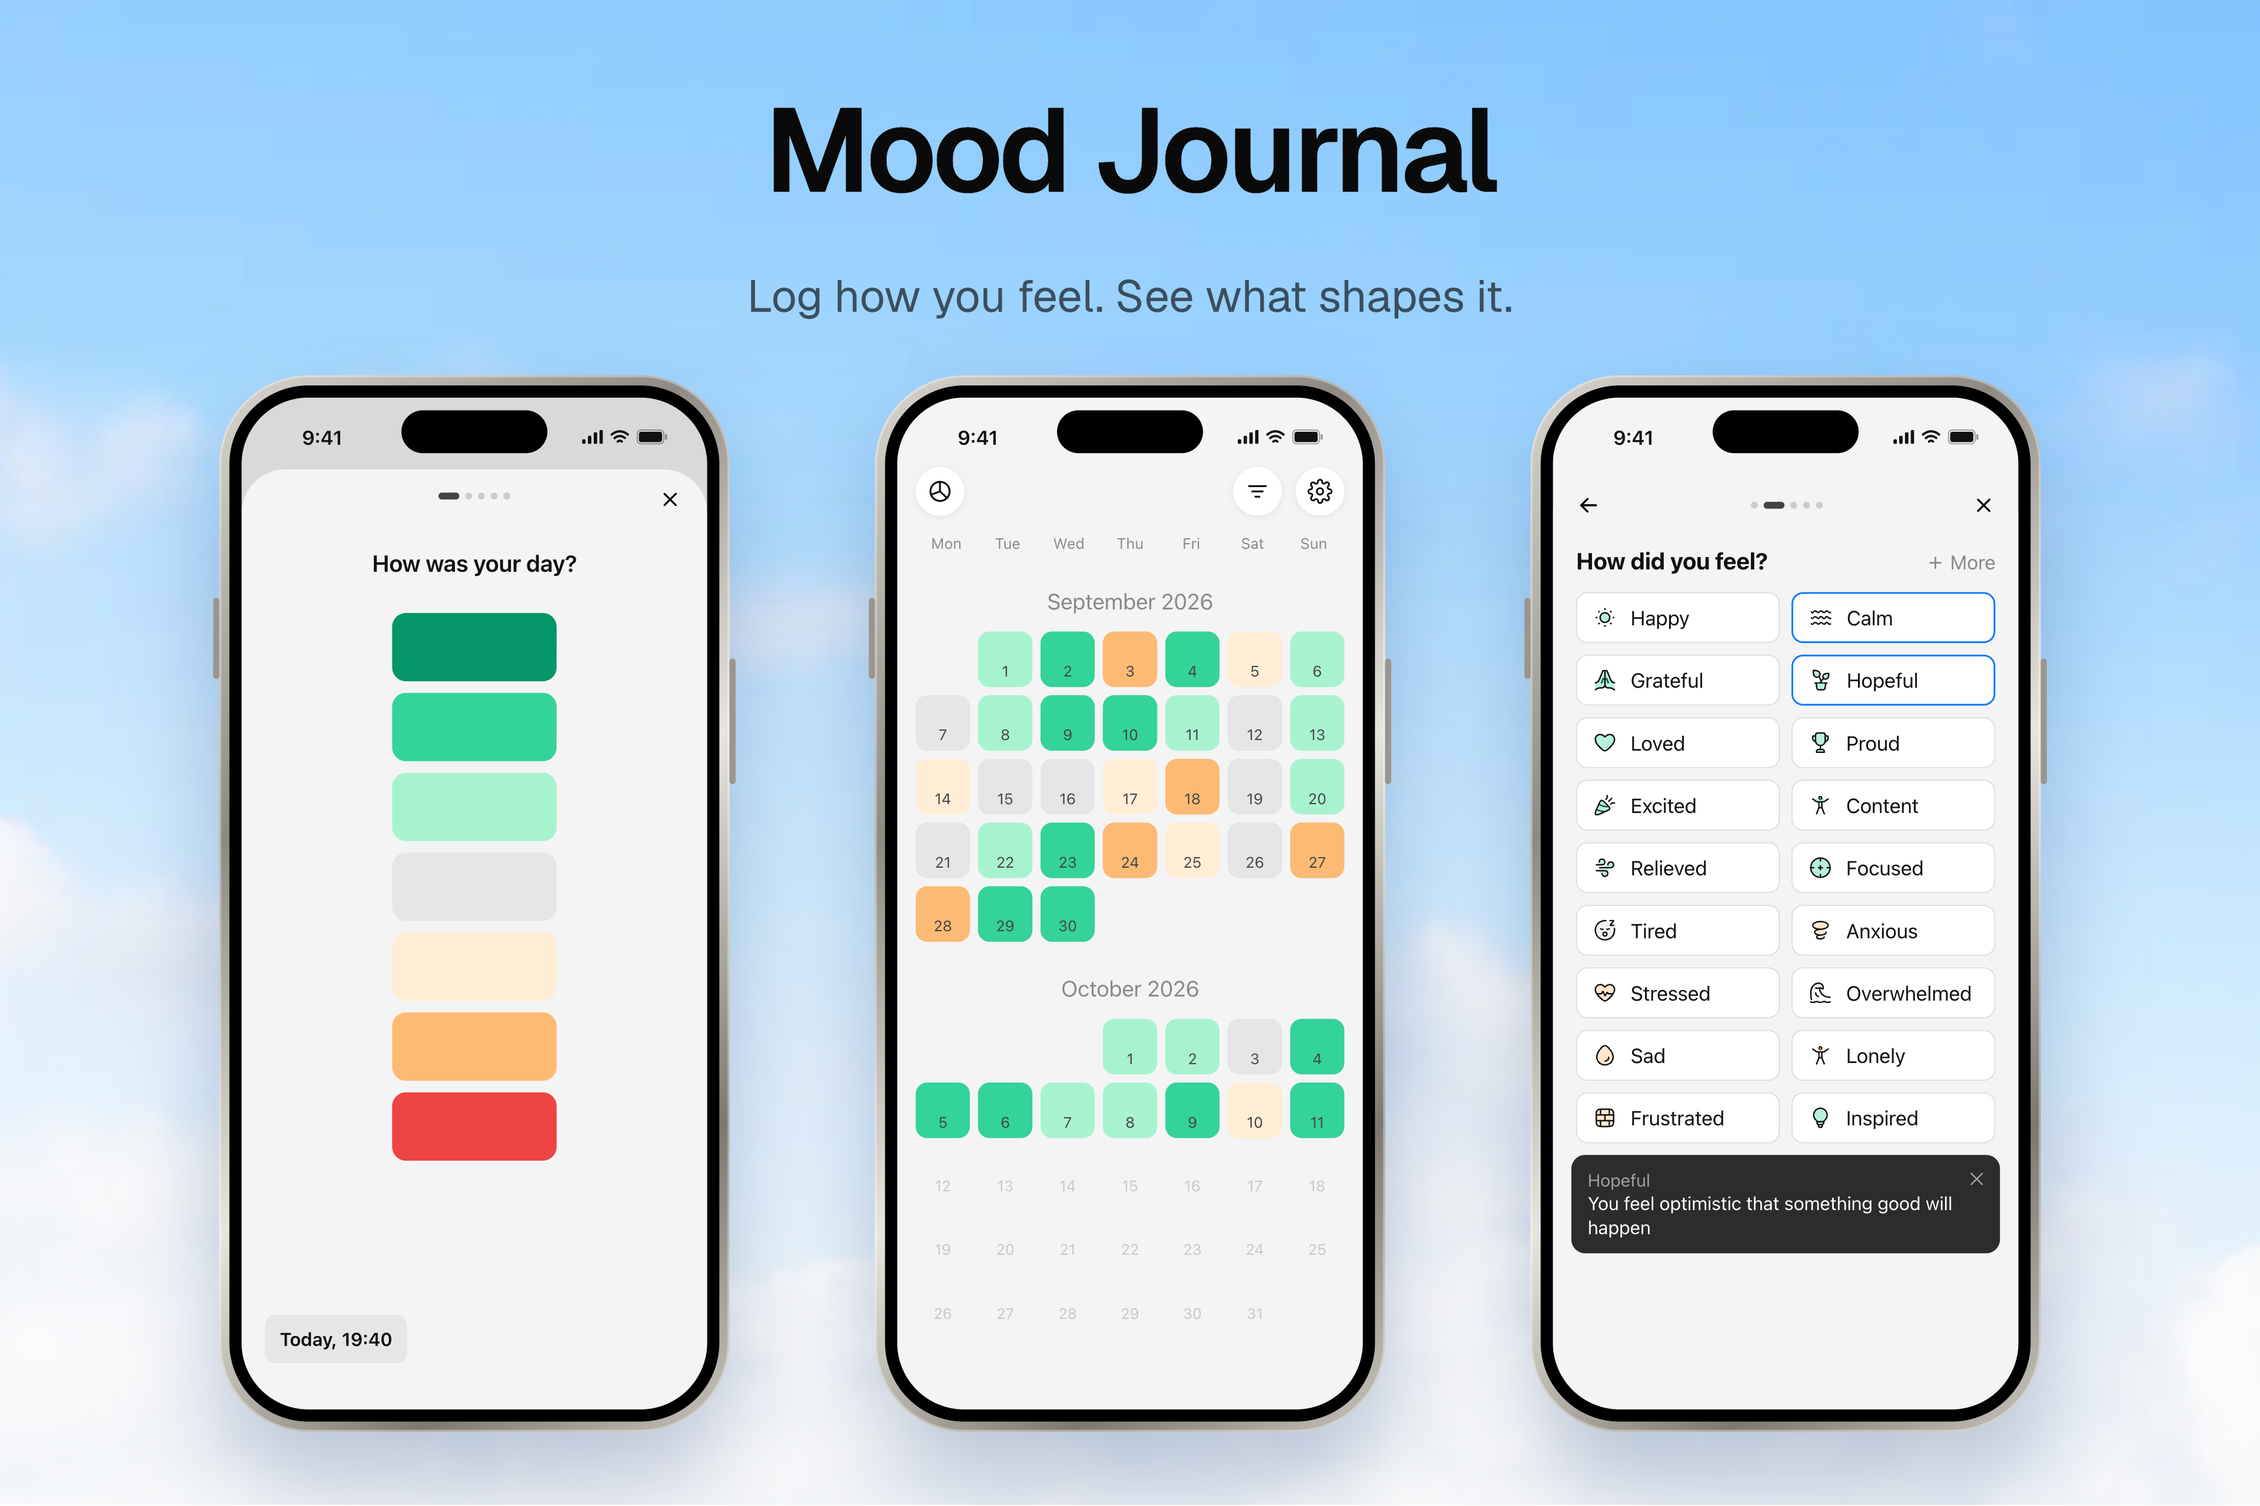
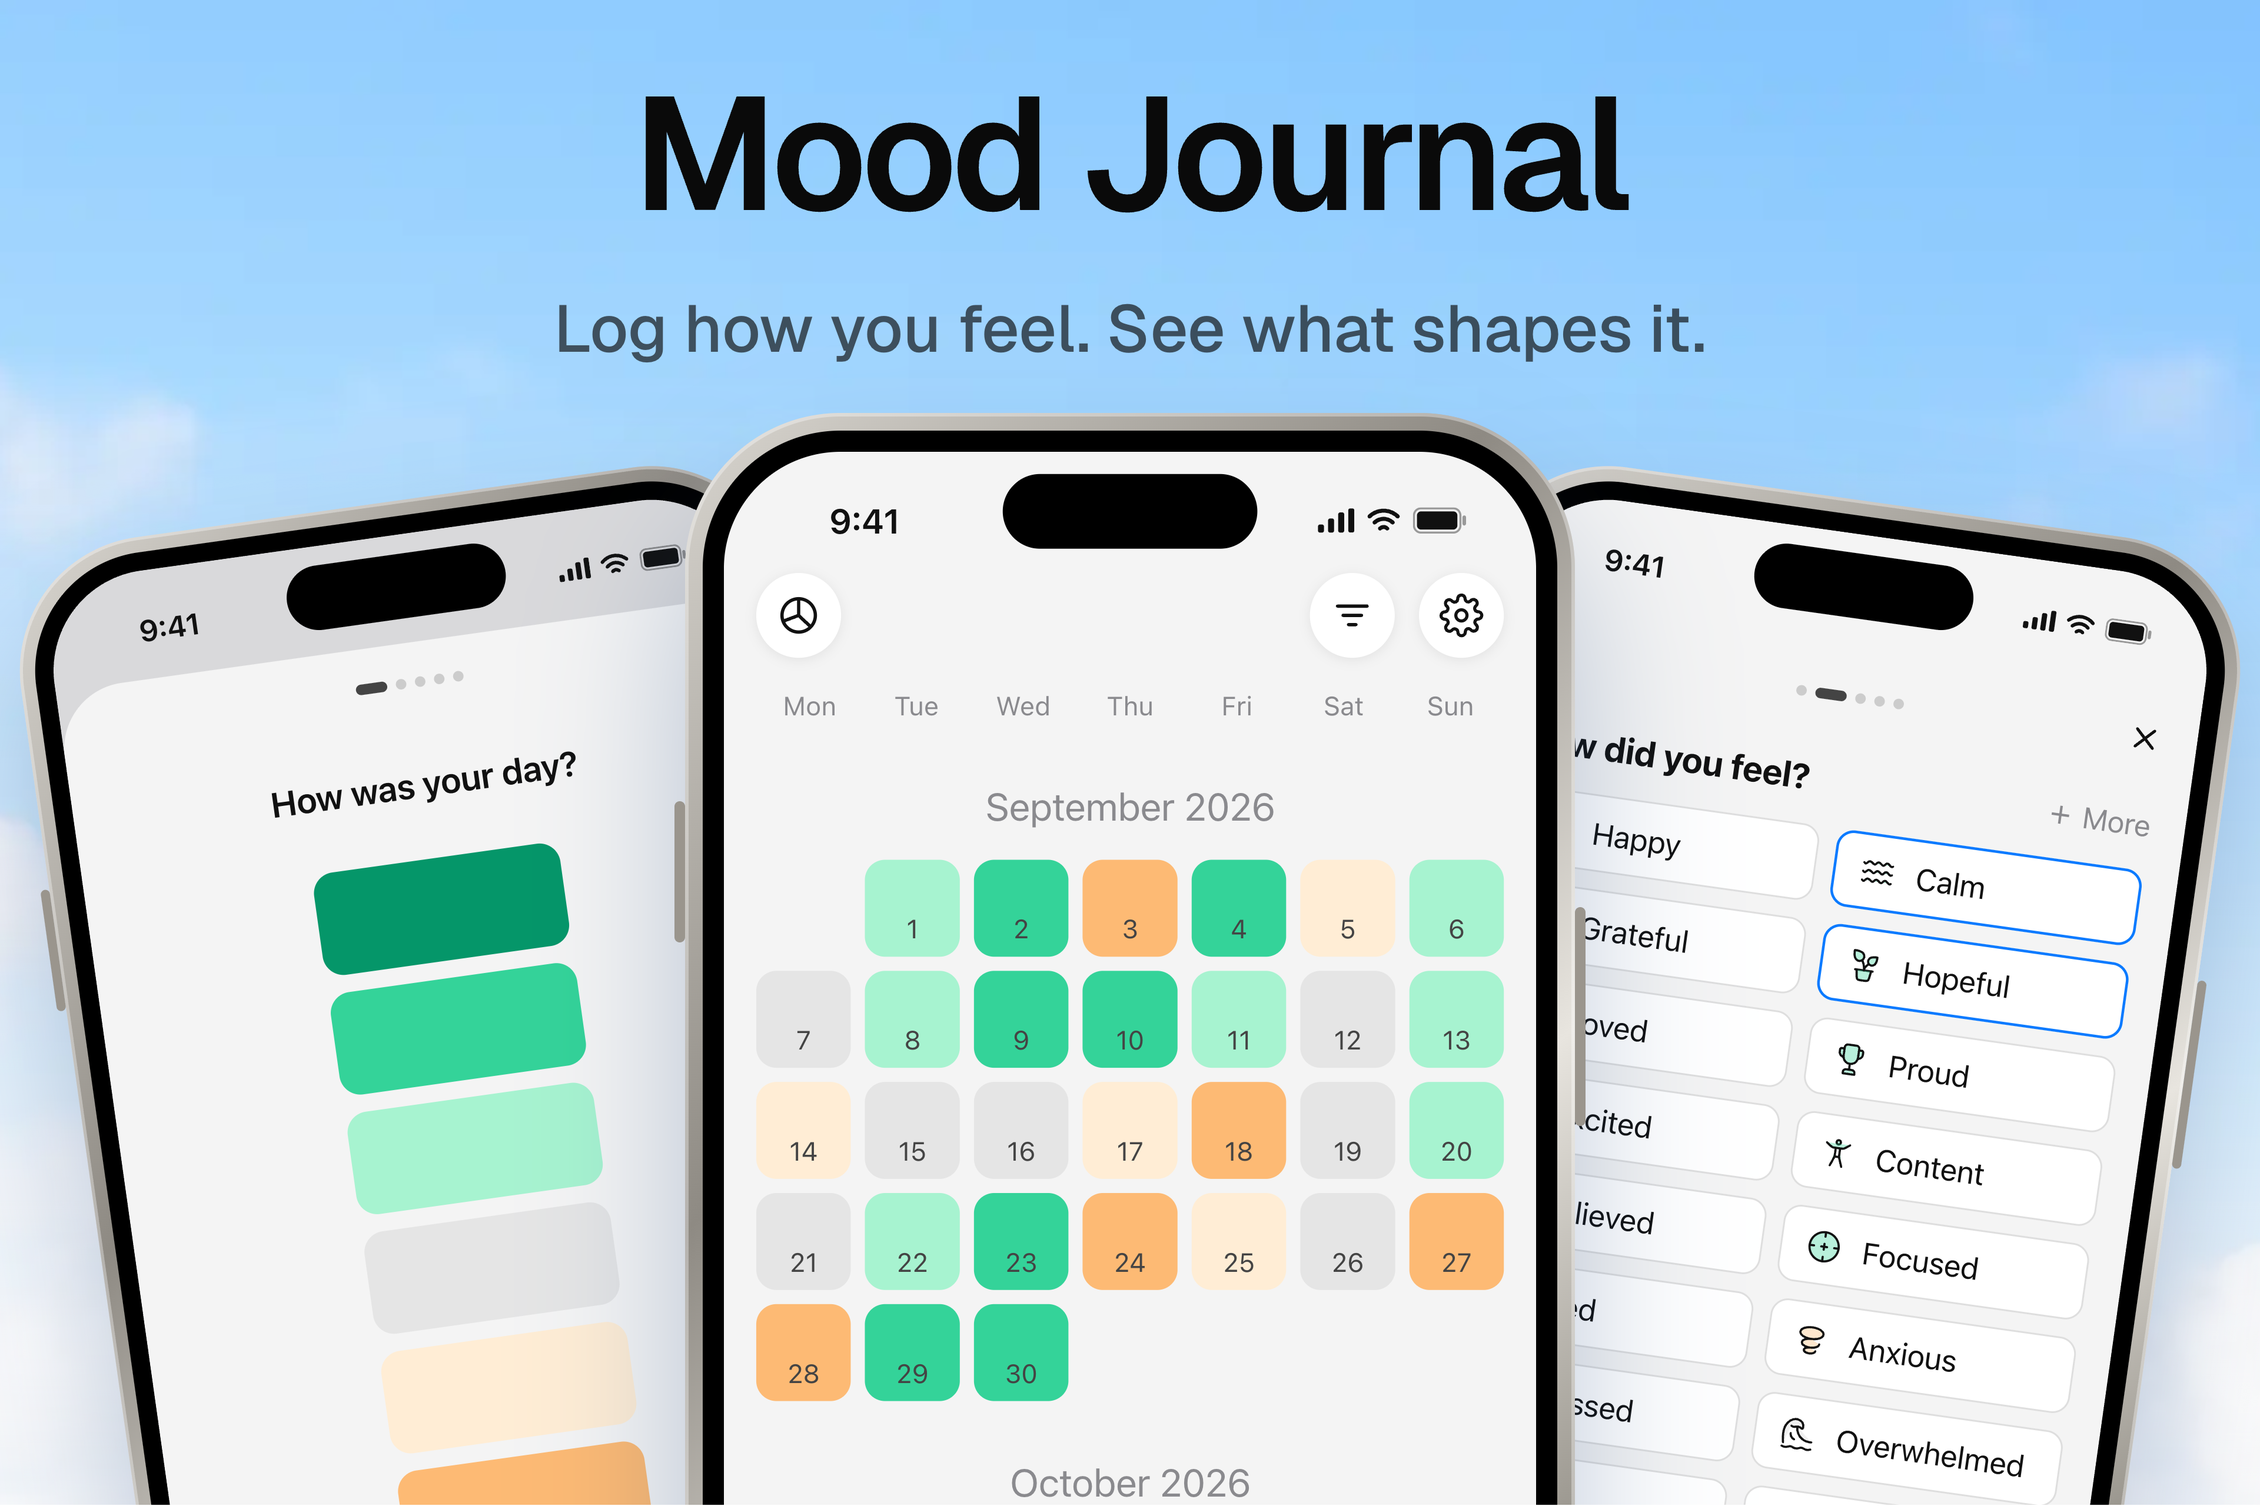
docs(store-screenshots): add Pixy brand to header, enlarge search phones and feature graphic type

diff --git a/docs/store-screenshots/index.html b/docs/store-screenshots/index.html
@@ -149,8 +149,11 @@ radial-gradient(1.4px 1.4px at 18% 10%,#fff,transparent),radial-gradient(1px 1px
 .cv h4{position:absolute;left:0;right:0;margin:0;text-align:center;font-weight:600;letter-spacing:-.03em;line-height:1.05}
 .cv .sub{position:absolute;left:0;right:0;text-align:center;color:rgba(10,10,10,.66);font-size:19px}
 .cv.feature{width:1024px;height:500px;background:url(photos/sky.webp) 50% 35%/cover no-repeat,#bcdcff}
-.cv .fk{position:absolute;left:64px;top:132px;font-size:16px;font-weight:700;letter-spacing:.09em;text-transform:uppercase;color:rgba(10,10,10,.66)}
-.cv h4.fh{left:64px;right:auto;top:164px;width:430px;text-align:left;font-size:50px;line-height:1.04}
+.cv .fk{position:absolute;left:52px;top:98px;font-size:24px;font-weight:700;letter-spacing:.09em;text-transform:uppercase;color:rgba(10,10,10,.66)}
+.cv h4.fh{left:52px;right:auto;top:138px;width:500px;text-align:left;font-size:64px;line-height:1.02}
+.cv .brand{position:absolute;z-index:3;left:0;right:0;top:26px;display:flex;justify-content:center;align-items:center;gap:12px}
+.cv .brand svg{width:46px;height:46px;border-radius:11px;box-shadow:0 0 0 1px rgba(10,40,90,.06),0 8px 20px rgba(20,60,120,.2)}
+.cv .brand b{font-size:38px;font-weight:600;letter-spacing:-.03em}
 .px{position:absolute;border-radius:22%;box-shadow:0 10px 24px rgba(20,60,120,.18)}
 </style></head><body><main>
 <h1>Pixy store screenshots</h1>
@@ -209,26 +212,27 @@ radial-gradient(1.4px 1.4px at 18% 10%,#fff,transparent),radial-gradient(1px 1px
 <div class="cvset">
  <div><div class="cv header" data-cv="header">
   <i class="px" style="left:70px;top:70px;width:34px;height:34px;background:#34d399;opacity:0.9;transform:rotate(-8deg)"></i><i class="px" style="left:150px;top:210px;width:22px;height:22px;background:#a7f3d0;opacity:0.85;transform:rotate(6deg)"></i><i class="px" style="left:40px;top:270px;width:26px;height:26px;background:#fdba74;opacity:0.8;transform:rotate(10deg)"></i><i class="px" style="left:230px;top:110px;width:18px;height:18px;background:#059669;opacity:0.7;transform:rotate(-4deg)"></i><i class="px" style="left:860px;top:60px;width:30px;height:30px;background:#059669;opacity:0.9;transform:rotate(8deg)"></i><i class="px" style="left:790px;top:200px;width:24px;height:24px;background:#ffedd5;opacity:0.85;transform:rotate(-6deg)"></i><i class="px" style="left:890px;top:280px;width:20px;height:20px;background:#34d399;opacity:0.8;transform:rotate(4deg)"></i><i class="px" style="left:720px;top:90px;width:16px;height:16px;background:#a7f3d0;opacity:0.7;transform:rotate(-10deg)"></i>
-  <div class="phA" style="top:78px;left:17%;transform:translateX(-50%) rotate(-8deg) scale(1.3);z-index:1;"><div class="bz"><div class="sc" data-app="mood" data-args=''></div></div></div>
-  <div class="phA" style="top:78px;left:83%;transform:translateX(-50%) rotate(8deg) scale(1.3);z-index:1;"><div class="bz"><div class="sc" data-app="year" data-args=''></div></div></div>
-  <div class="phA" style="top:34px;transform:translateX(-50%) scale(1.5);z-index:2;"><div class="bz"><div class="sc" data-app="calendar" data-args=''></div></div></div>
- </div><div class="lab"><b>Product page header</b> 21:9, 3840x1646. No text: app icon, name and Get button sit right below. Calendar in front, mood logger and year in pixels behind, phones run off the bottom edge.</div></div>
+  <div class="brand"><svg viewBox="0 0 1024 1024"><rect width="1024" height="1024" fill="#fff"/><circle cx="345" cy="345" r="150" fill="#fdba74"/><circle cx="687" cy="345" r="150" fill="#34d399"/><circle cx="345" cy="687" r="150" fill="#ffedd5"/><circle cx="687" cy="687" r="150" fill="#059669"/></svg><b>Pixy</b></div>
+  <div class="phA" style="top:150px;left:17%;transform:translateX(-50%) rotate(-8deg) scale(1.3);z-index:1;"><div class="bz"><div class="sc" data-app="mood" data-args=''></div></div></div>
+  <div class="phA" style="top:150px;left:83%;transform:translateX(-50%) rotate(8deg) scale(1.3);z-index:1;"><div class="bz"><div class="sc" data-app="year" data-args=''></div></div></div>
+  <div class="phA" style="top:106px;transform:translateX(-50%) scale(1.5);z-index:2;"><div class="bz"><div class="sc" data-app="calendar" data-args=''></div></div></div>
+ </div><div class="lab"><b>Product page header</b> 21:9, 3840x1646. Pixy icon + name on top, phones pushed down. Calendar in front, mood logger and year in pixels behind, phones run off the bottom edge.</div></div>
  <div><div class="cv search" data-cv="search">
-  <h4 style="top:38px;font-size:50px">Mood Journal</h4>
-  <div class="sub" style="top:104px">Log how you feel. See what shapes it.</div>
-  <div class="phA" style="top:160px;left:21%;transform:translateX(-50%) scale(.86);"><div class="bz"><div class="sc" data-app="mood" data-args=''></div></div></div>
-  <div class="phA" style="top:160px;transform:translateX(-50%) scale(.86);"><div class="bz"><div class="sc" data-app="calendar" data-args=''></div></div></div>
-  <div class="phA" style="top:160px;left:79%;transform:translateX(-50%) scale(.86);"><div class="bz"><div class="sc" data-app="emotions" data-args=''></div></div></div>
- </div><div class="lab"><b>Search results</b> 3:2, 3840x2560. Replaces the first 3 screenshots in search. "Mood Journal" + one line + real app: mood logger, calendar, emotions.</div></div>
+  <h4 style="top:30px;font-size:68px">Mood Journal</h4>
+  <div class="sub" style="top:112px;font-size:28px;font-weight:500">Log how you feel. See what shapes it.</div>
+  <div class="phA" style="top:214px;left:17%;transform:translateX(-50%) rotate(-8deg) scale(1.3);z-index:1;"><div class="bz"><div class="sc" data-app="mood" data-args=''></div></div></div>
+  <div class="phA" style="top:214px;left:83%;transform:translateX(-50%) rotate(8deg) scale(1.3);z-index:1;"><div class="bz"><div class="sc" data-app="emotions" data-args=''></div></div></div>
+  <div class="phA" style="top:176px;transform:translateX(-50%) scale(1.5);z-index:2;"><div class="bz"><div class="sc" data-app="calendar" data-args=''></div></div></div>
+ </div><div class="lab"><b>Search results</b> 3:2, 3840x2560. Replaces the first 3 screenshots in search, shown small: big type, big phones (calendar front, mood logger and emotions behind).</div></div>
  <div><div class="cv feature android-set" data-cv="feature">
   <i class="px" style="left:40px;top:40px;width:26px;height:26px;background:#34d399;opacity:0.85;transform:rotate(-8deg)"></i><i class="px" style="left:470px;top:60px;width:18px;height:18px;background:#a7f3d0;opacity:0.8;transform:rotate(6deg)"></i><i class="px" style="left:60px;top:420px;width:22px;height:22px;background:#fdba74;opacity:0.8;transform:rotate(10deg)"></i><i class="px" style="left:420px;top:400px;width:16px;height:16px;background:#059669;opacity:0.75;transform:rotate(-4deg)"></i>
   <div class="fk">Mood Journal</div>
   <h4 class="fh">Understand what makes you feel that way.</h4>
-  <div class="phA" style="top:40px;left:auto;right:200px;transform:rotate(-6deg) scale(1.35);z-index:2;"><div class="bz"><div class="sc" data-app="calendar" data-args=''></div></div></div>
-  <div class="phA" style="top:96px;left:auto;right:-150px;transform:rotate(7deg) scale(1.25);z-index:1;"><div class="bz"><div class="sc" data-app="year" data-args=''></div></div></div>
+  <div class="phA" style="top:40px;left:auto;right:140px;transform:rotate(-6deg) scale(1.35);z-index:2;"><div class="bz"><div class="sc" data-app="calendar" data-args=''></div></div></div>
+  <div class="phA" style="top:96px;left:auto;right:-190px;transform:rotate(7deg) scale(1.25);z-index:1;"><div class="bz"><div class="sc" data-app="year" data-args=''></div></div></div>
  </div><div class="lab"><b>Google Play feature graphic</b> 1024x500 (rendered 2x, downsampled). Mood Journal kicker + proof headline left, calendar and year in pixels right.</div></div>
 </div></main>
-<script src="https://unpkg.com/lucide@0.460.0/dist/umd/lucide.min.js"></script><script src="emotion-icons.js?v=1792505961"></script><script src="appscreens.js?v=1792505961"></script><script>
+<script src="https://unpkg.com/lucide@0.460.0/dist/umd/lucide.min.js"></script><script src="emotion-icons.js?v=1792509715"></script><script src="appscreens.js?v=1792509715"></script><script>
 document.head.insertAdjacentHTML('beforeend','<style>'+APP.css+'</style>');
 document.querySelectorAll('[data-app]').forEach(el=>{window.PIXY_OS=el.closest('.android-set')?'android':'ios';const a=(el.dataset.args||'').split(',').filter(Boolean);el.innerHTML=APP.render(el.dataset.app,a[0]||undefined,a[1]==='dark')});window.PIXY_OS='ios';
 document.querySelectorAll('[data-card]').forEach(el=>el.innerHTML='<div class="ps">'+APP.card(el.dataset.card)+'</div>');

diff --git a/docs/store-screenshots/build.py b/docs/store-screenshots/build.py
@@ -277,8 +277,11 @@ CREATIVE_CSS = r"""
 .cv h4{position:absolute;left:0;right:0;margin:0;text-align:center;font-weight:600;letter-spacing:-.03em;line-height:1.05}
 .cv .sub{position:absolute;left:0;right:0;text-align:center;color:rgba(10,10,10,.66);font-size:19px}
 .cv.feature{width:1024px;height:500px;background:url(photos/sky.webp) 50% 35%/cover no-repeat,#bcdcff}
-.cv .fk{position:absolute;left:64px;top:132px;font-size:16px;font-weight:700;letter-spacing:.09em;text-transform:uppercase;color:rgba(10,10,10,.66)}
-.cv h4.fh{left:64px;right:auto;top:164px;width:430px;text-align:left;font-size:50px;line-height:1.04}
+.cv .fk{position:absolute;left:52px;top:98px;font-size:24px;font-weight:700;letter-spacing:.09em;text-transform:uppercase;color:rgba(10,10,10,.66)}
+.cv h4.fh{left:52px;right:auto;top:138px;width:500px;text-align:left;font-size:64px;line-height:1.02}
+.cv .brand{position:absolute;z-index:3;left:0;right:0;top:26px;display:flex;justify-content:center;align-items:center;gap:12px}
+.cv .brand svg{width:46px;height:46px;border-radius:11px;box-shadow:0 0 0 1px rgba(10,40,90,.06),0 8px 20px rgba(20,60,120,.2)}
+.cv .brand b{font-size:38px;font-weight:600;letter-spacing:-.03em}
 .px{position:absolute;border-radius:22%;box-shadow:0 10px 24px rgba(20,60,120,.18)}
 """
 def pixels(cells):
@@ -287,28 +290,31 @@ def pixels(cells):
 # Mood colors from appscreens.js default scale, floating like the year grid drifting through the clouds.
 PX = [(70, 70, 34, "#34d399", .9, -8), (150, 210, 22, "#a7f3d0", .85, 6), (40, 270, 26, "#fdba74", .8, 10), (230, 110, 18, "#059669", .7, -4),
       (860, 60, 30, "#059669", .9, 8), (790, 200, 24, "#ffedd5", .85, -6), (890, 280, 20, "#34d399", .8, 4), (720, 90, 16, "#a7f3d0", .7, -10)]
+# App icon: 4 mood dots on white (assets/images/icon.png).
+PIXY_ICON = '<svg viewBox="0 0 1024 1024"><rect width="1024" height="1024" fill="#fff"/><circle cx="345" cy="345" r="150" fill="#fdba74"/><circle cx="687" cy="345" r="150" fill="#34d399"/><circle cx="345" cy="687" r="150" fill="#ffedd5"/><circle cx="687" cy="687" r="150" fill="#059669"/></svg>'
 FPX = [(40, 40, 26, "#34d399", .85, -8), (470, 60, 18, "#a7f3d0", .8, 6), (60, 420, 22, "#fdba74", .8, 10), (420, 400, 16, "#059669", .75, -4)]
 CREATIVE = f"""
 <div class="cvset">
  <div><div class="cv header" data-cv="header">
   {pixels(PX)}
-  {phone('mood', 78, 'left:17%;transform:translateX(-50%) rotate(-8deg) scale(1.3);z-index:1;')}
-  {phone('year', 78, 'left:83%;transform:translateX(-50%) rotate(8deg) scale(1.3);z-index:1;')}
-  {phone('calendar', 34, 'transform:translateX(-50%) scale(1.5);z-index:2;')}
- </div><div class="lab"><b>Product page header</b> 21:9, 3840x1646. No text: app icon, name and Get button sit right below. Calendar in front, mood logger and year in pixels behind, phones run off the bottom edge.</div></div>
+  <div class="brand">{PIXY_ICON}<b>Pixy</b></div>
+  {phone('mood', 150, 'left:17%;transform:translateX(-50%) rotate(-8deg) scale(1.3);z-index:1;')}
+  {phone('year', 150, 'left:83%;transform:translateX(-50%) rotate(8deg) scale(1.3);z-index:1;')}
+  {phone('calendar', 106, 'transform:translateX(-50%) scale(1.5);z-index:2;')}
+ </div><div class="lab"><b>Product page header</b> 21:9, 3840x1646. Pixy icon + name on top, phones pushed down. Calendar in front, mood logger and year in pixels behind, phones run off the bottom edge.</div></div>
  <div><div class="cv search" data-cv="search">
-  <h4 style="top:38px;font-size:50px">Mood Journal</h4>
-  <div class="sub" style="top:104px">Log how you feel. See what shapes it.</div>
-  {phone('mood', 160, 'left:21%;transform:translateX(-50%) scale(.86);')}
-  {phone('calendar', 160, 'transform:translateX(-50%) scale(.86);')}
-  {phone('emotions', 160, 'left:79%;transform:translateX(-50%) scale(.86);')}
- </div><div class="lab"><b>Search results</b> 3:2, 3840x2560. Replaces the first 3 screenshots in search. "Mood Journal" + one line + real app: mood logger, calendar, emotions.</div></div>
+  <h4 style="top:30px;font-size:68px">Mood Journal</h4>
+  <div class="sub" style="top:112px;font-size:28px;font-weight:500">Log how you feel. See what shapes it.</div>
+  {phone('mood', 214, 'left:17%;transform:translateX(-50%) rotate(-8deg) scale(1.3);z-index:1;')}
+  {phone('emotions', 214, 'left:83%;transform:translateX(-50%) rotate(8deg) scale(1.3);z-index:1;')}
+  {phone('calendar', 176, 'transform:translateX(-50%) scale(1.5);z-index:2;')}
+ </div><div class="lab"><b>Search results</b> 3:2, 3840x2560. Replaces the first 3 screenshots in search, shown small: big type, big phones (calendar front, mood logger and emotions behind).</div></div>
  <div><div class="cv feature android-set" data-cv="feature">
   {pixels(FPX)}
   <div class="fk">Mood Journal</div>
   <h4 class="fh">Understand what makes you feel that way.</h4>
-  {phone('calendar', 40, 'left:auto;right:200px;transform:rotate(-6deg) scale(1.35);z-index:2;')}
-  {phone('year', 96, 'left:auto;right:-150px;transform:rotate(7deg) scale(1.25);z-index:1;')}
+  {phone('calendar', 40, 'left:auto;right:140px;transform:rotate(-6deg) scale(1.35);z-index:2;')}
+  {phone('year', 96, 'left:auto;right:-190px;transform:rotate(7deg) scale(1.25);z-index:1;')}
  </div><div class="lab"><b>Google Play feature graphic</b> 1024x500 (rendered 2x, downsampled). Mood Journal kicker + proof headline left, calendar and year in pixels right.</div></div>
 </div>"""
 body = body.replace('Google Play User', 'Pixy user')
